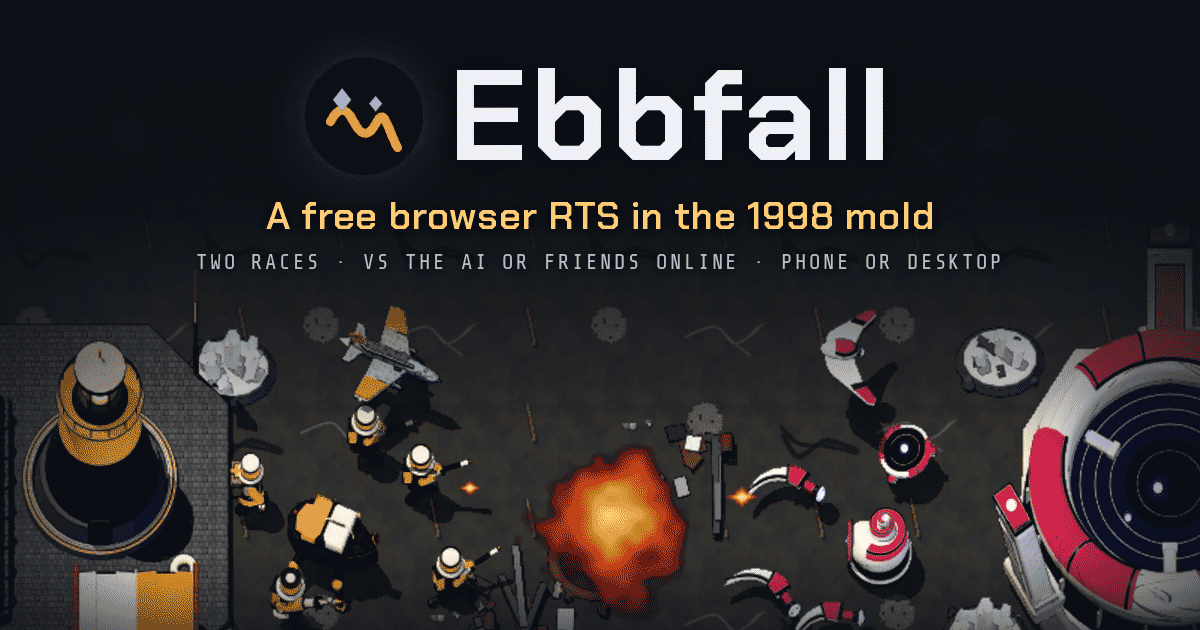
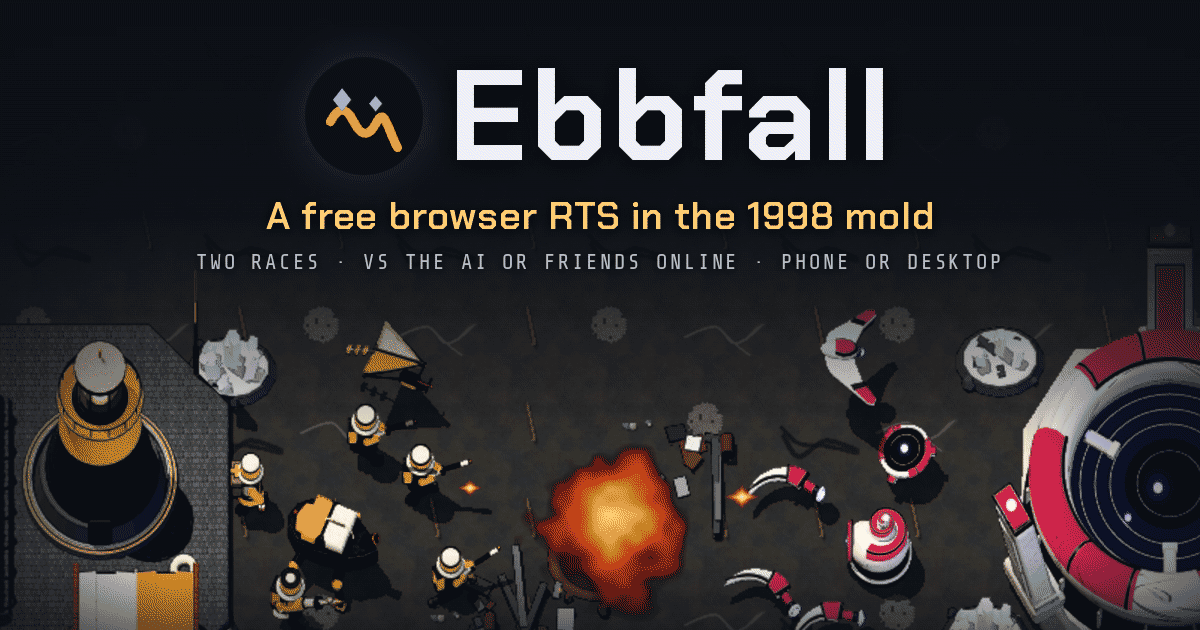
Review: the UNIT_FPS note without the old Raider's jet; og.png regenerated with the new flyers

diff --git a/src/client/look.js b/src/client/look.js
@@ -32,8 +32,8 @@ export const BLDG_LOOK = {
 /** Units: the pitch of their radio chirp (Hz): heavy machines low, flyers and medics high. */
 export const UNIT_VOICE = { harvester: 330, trooper: 520, lancer: 600, medic: 760, vanguard: 260, siegeTank: 230, interceptor: 380, raider: 880, observer: 1040, lumen: 700, scythe: 460, prism: 820, monolith: 220, shrike: 960, halo: 940, umbra: 400, bastion: 180, sovereign: 160 };
 
-/** Animation frames per second by unit type (default: 14 for flyers, whose rotors spin and the Raider's jet flickers;
- *  8 for walkers while they move). 0 holds the first frame: the Shrike glides on its swept wing (its two poses
+/** Animation frames per second by unit type (default: 14 for flyers with frames to cycle; 8 for walkers while they
+ *  move). 0 holds the first frame: the Shrike glides on its swept wing (its two poses
  *  flickered at 14/s). The Sovereign's four hover frames (a bob, its lift ring turning) run at 4/s: a heavy barge, not
  *  a bounce. The Harbour's flyers (the Kite, the Spyglass, the Windjammer: tools/render3d/harbour-air.js) are gliders
  *  too, one frame each. */
